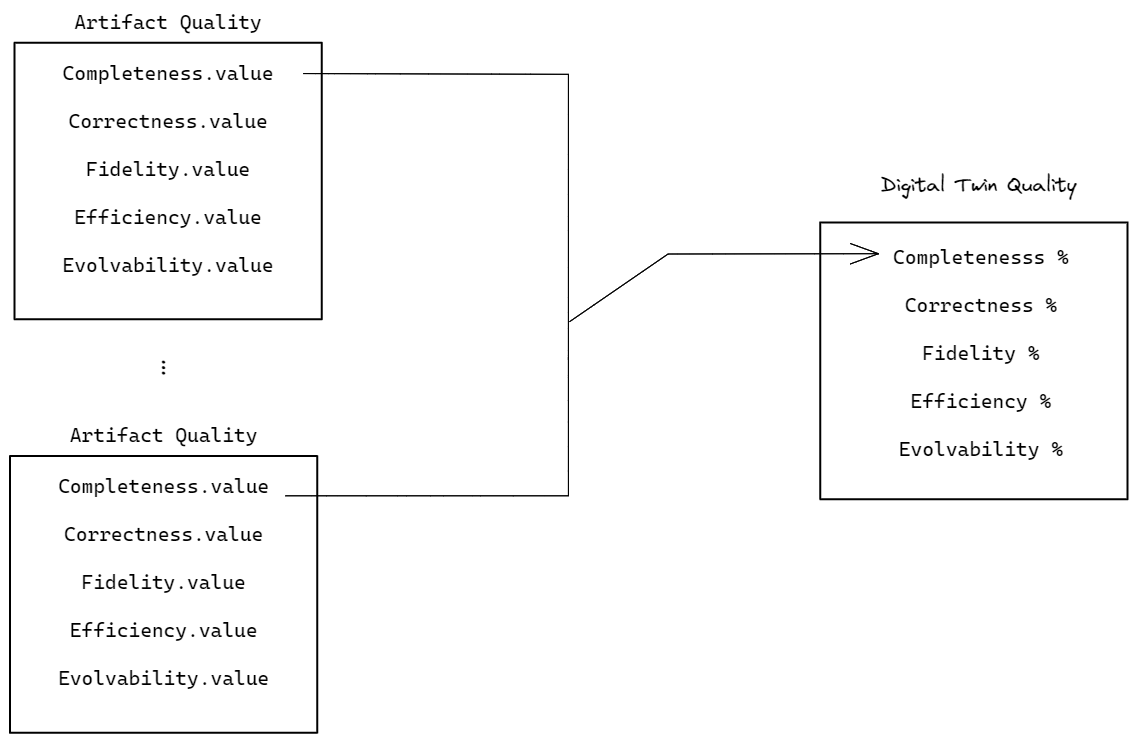
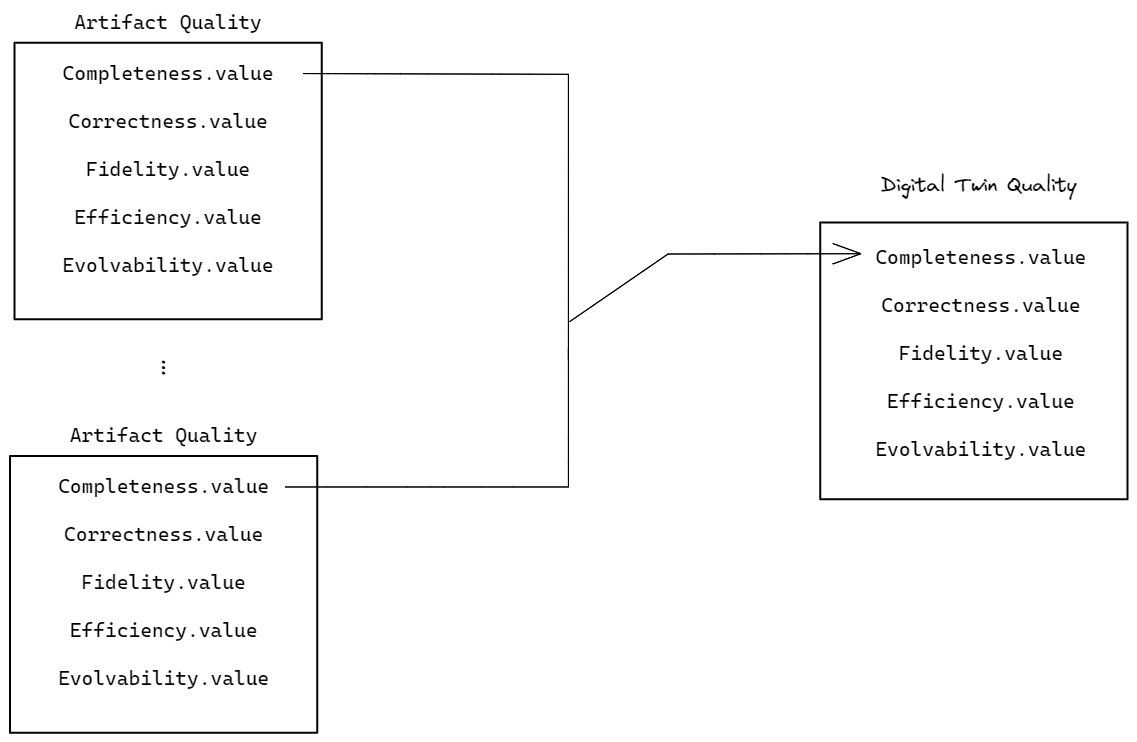
New image, new table, revisions 1,2,3

diff --git a/manuscripts/paper-1/main.tex b/manuscripts/paper-1/main.tex
@@ -8,6 +8,9 @@
 \usepackage{cite}
 \usepackage{booktabs}
 \usepackage{multirow}
+\usepackage{cleveref}
+\usepackage{tabularray}
+\usepackage{dirtree,array}
 
 
 
@@ -153,33 +156,34 @@
     The current stage of review encompasses five key artifacts, including process videos displaying the current assembly procedure without an adaptive workstation and cobot, a scope definition outlining the objects on the shop floor requiring tracking or twinning, a requirements specification summarizing functional and non-functional requirements for the digital twin, a general and an operational conceptual model elucidating the high-level structure of the assembly procedure, 
     and a discrete event simulation module that implements the structures prescribed by the conceptual models.
 
-    \textbf{Process Videos:}
-    The project partner provided three videos initially to explain the manual assembly procedures performed at each of the three workstations. From the videos,  
+    \textbf{Process Videos} have been utilized to explain the manual assembly procedures performed at each of the three workstations. From the three videos initially provided by the project partner,  
     the sequence of assembly steps was extracted at least for one product variant. The tools and the parts needed for each assembly operation were observed. Additionally, the approximate duration of each assembly step 
     was estimated, and some ergonomic characteristics of each operation were derived. 
     The derivable ergonomic characteristics mainly included the poses and motions performed by the operators.
 
-    \textbf{Scope Definition:}
-    To better understand the context and focus of the digital twin, 
-    the project partner used a methodology based on hierarchical task analysis and the process videos. 
+    \textbf{Scope Definition} was determined using a methodology based on hierarchical task analysis and process videos provided by the project partner, which aids in better understanding the context and focus of the digital twin.
     This resulted in a scope definition that identified entities to be twinned, entities to be tracked, and important areas in the scene. 
     Entities to be twinned needed to be represented accurately in the simulation models, including their position, pose, speed, fatigue, and other state variables. 
     Entities to be tracked, on the other hand, only required position information. The scope definition was based on a floor plan of the production facility, with the three workstations marked as gray rectangles. 
     The human workers, cobot, and adaptive workstation were identified as entities to be twinned, and therefore required accurate representation, 
     monitoring, and simulation. Other entities, such as an AGV, carts with doors, and screwdrivers used for assembly operations, were designated as entities to be tracked.
 
-    \textbf{Requirements Specification} for the digital twin was defined with a unique ID, a natural language description, an origin, a category, a priority, and a rationale. The ID was used as a reference point for other project artifacts, while the specification described the requirement in a way that allowed for testing of the digital twin implementation. The origin of the requirement was noted to identify the project partner responsible for its creation. The category distinguished between functional and non-functional requirements, as well as constraints and standards. The priority of each requirement was classified into four levels 
+    \textbf{Requirements Specification} for the digital twin was defined with a unique ID, a natural language description, an origin, a category, a priority, and a rationale. The ID was used as a reference point for other project artifacts, while the specification described the requirement in a way that allowed for testing of the digital twin implementation. The origin of the requirement was noted to identify the project partner responsible for its creation.
+     The category is distinguished between functional and non-functional requirements, as well as constraints and standards. The priority of each requirement was classified into four levels 
     (must-, should-, could-, and would-have) to help prioritize development efforts. 
-    Finally, the rationale provided a clear explanation for each requirement's inclusion in the specification.
+    Finally, the rationale provided a clear explanation for each requirement's implication in the specification.
 
-    \textbf{Conceptual Model} was comprised of two parts:  a general conceptual model and an operational conceptual model. Both models described the assembly line processes, but the operational conceptual model focused on the specific steps of the assembly process, while the general conceptual model focused on higher-level processes and workflows.
-    The general conceptual model was represented using a general flow chart notation that distinguished between a root node, activity nodes, and decision nodes.
+    \textbf{Conceptual Model} was comprised of two parts: a general conceptual model and an operational conceptual model. 
+    Both models described the assembly line processes however the operational conceptual model focused on the specific steps of the assembly process, while the general conceptual model focused on higher-level processes and workflows.
+    The general conceptual model was represented using a general flow chart notation which distinguishes a root node, activity nodes, and decision nodes.
     The operational conceptual model consisted of three spreadsheets, each displaying the sequence of assembly operations performed at one workstation. 
     The assembly operations were divided into macro- and micro-operations, with each macro-operation referring 
     to one part of the final product being assembled, and the micro-operations referring to the individual steps needed to complete the respective macro-operation.
 
-    \textbf{Discrete Event Simulation Model} consisted of seven sections, including two animation sections, two input sections, one output section, one process logic section, and a database section. The animation sections provided a two-dimensional and a three-dimensional representation of the system, which aided in understanding the simulation and for debugging purposes. The input sections allowed for the management of inputs to the simulation model, and the output section displayed summary performance indicators about the simulation run. 
-    The process logic section contained the process building blocks, such as queues and assembly operations. The database section provided an interface to data sources and sinks.
+    \textbf{Discrete Event Simulation Model} consisted of seven sections, including two animation sections, two input sections, one output section, one process logic section, and a database section. 
+    The animation sections provided a two-dimensional and a three-dimensional representation of the system, 
+    which aided in understanding the simulation and debugging purposes. The input sections allowed for the management of inputs to the simulation model, and the output section displayed summary performance indicators about the simulation run. 
+    The process logic section contained the process building blocks, such as queues and assembly operations. Lastly, the database section provided an interface to data sources and sinks.
     
     \subsection{Manual Artifact Reviews}
     During the initial stages of the project, when the target system was not yet available,
@@ -200,34 +204,33 @@
     Meanwhile, the quality of being correct is described by the term accuracy \cite{OxfordDictionary}. 
     
     \textbf{Completeness} is a derived word from the word complete, which can be described as an adjective, attribute, or verb\cite{OxfordDictionary}. 
-    The adjectival form of complete is a state of having all the necessary or appropriate parts\cite{OxfordDictionary}.
+    The adjectival form used in the study denotes \textit{complete} as a state of having all the necessary or appropriate parts of both systems\cite{OxfordDictionary}.
 
     \textbf{Fidelity} refers to the degree of exactness with which the real system is copied and represented. 
     Low fidelity indicates a simplified representation, while high fidelity refers to an accurate and detailed representation of the real system \cite{Review2}. 
     The concept of fidelity has garnered significant attention in recent
-    years and continues to be an important area of research in digital twins\cite{Review2}\cite{Review1}.
+    years and continues to be an important focus in Digital Twin research\cite{Review2}\cite{Review1}.
 
     \textbf{Efficiency} refers to the quality of being efficient\cite{OxfordDictionary}. Therefore, efficiency is achieving
-    maximum productivity with minimum wasted effort or expense. The concept of efficiency is tightly coupled to productivity, which refers to the quality of being productive,
-    also the word productive can be explained as producing or being able to produce large amounts of goods\cite{OxfordDictionary}.  
-    For example, time efficiency indicates that,  with less amount of time as an input, more output with the minimum 
-    waste during the process is desired. 
+    maximum productivity with minimum wasted effort or expense. It is worth mentioning that the concept of efficiency is tightly intertwined with the concept of productivity, 
+    although it differs from the latter's definition, which is defined as the ability to produce large amounts of goods\cite{OxfordDictionary}.  
+    For example, time efficiency indicates that,  with less amount of time as an input, more output with the minimum waste during the process is desired. 
 
     \textbf{Evolvability} is a system's capability to enhance its suitability to its environment through alterations to both its internal and functional 
     structure\cite{MobusSystemTheory}. Another term to describe the response to changes in the environment is adaptability.
     However, this concept differs from evolvability in that it only affects a system's internal or functional structure temporarily. 
-    For instance, a digital twin, which is a virtual system, can be designed to be more flexible and scalable, 
+    For instance, a digital twin, which is an evolvable virtual system, can be designed to be more flexible and scalable, 
     allowing for easy updates and the addition of new features\cite{ZHANGUPDATEMETHOD}.
     
-    \subsection{Mapping Digital Twin Attributes to Results of the Manual Reviews}
+    \subsection{Mapping Digital Twin Attributes to Manual Review Results}
     To evaluate the quality of the artifact, the issues were mapped to digital twin attributes. 
     To begin this process, the findings were collected from the manual review, followed by an inspection of the findings to determine which digital twin qualities were absent. 
     Finally, the findings were mapped to the relevant missing quality attribute(s) and submitted for artifact quality evaluation. 
     
-    subsection{Artifact Quality Evaluation}
+    \subsection{Artifact Quality Evaluation}
     To evaluate the quality of the digital twin artifacts, the mapped findings were scrutinized and evaluated. 
     The process started by identifying which quality attribute(s) were mapped. 
-    Once identified, the missing attribute(s) was incremented by 1 to determine the quality percentage of the artifact. 
+    Once identified, the missing attribute(s) was incremented by 1 to determine the total quality missing attributes of the artifact. 
     
     \begin{figure}[htbp]
         \includegraphics[scale = 0.35]{RequirementSpecifications.png}
@@ -238,12 +241,12 @@
     \subsection{Digital Twin Quality Evaluation}
     To assess the quality of the digital twin, the values obtained from evaluating each artifact's quality are collected and summed. 
     The resulting sum was assigned to the corresponding digital twin quality attribute. 
-    As a result, the digital twin quality was expressed as a percentage using the following equation:    
+    As a result, the digital twin quality was expressed with quality attribute values.    
   
 
     \begin{figure}[htbp]
         \includegraphics[scale = 0.25]{DigitalTwinQuality.png}
-            \caption{Method for the evaluation of the digital twin quality:}
+            \caption{Method for the evaluation of the digital twin quality}
         \label{fig:MethodforDigitalTwinQuality}
     \end{figure}
    
@@ -251,7 +254,56 @@
     %%%%%%%%%%%%%%%%%%%%%%%%%%%%%%%%%%%%%%%RESULTS%%%%%%%%%%%%%%%%%%%%%%%%%%%%%%%%%%%%%%%
     \section{Results}
 
-    
+    First, to assess digital twin quality, manual reviews for each artifact were conducted (Figure~\ref{fig:QualityInspectonResultsWithArtifacts} ). 
+    As a result, a total of twenty-one quality issues were identified, listed and finally mapped to the digital twin quality attributes(Table~\ref{tab:Table1})(Table~\ref{tab:Table2})(Figure~\ref{fig:QualityInspectonResultsWithArtifacts}).
+    The mapping process revealed that a total of thirty-eight digital twin quality attributes were lacking in the artifacts(Figure~\ref{fig:QualityInspectonResultsWithArtifacts}).  
+    Specifically, 24\% of the quality issues of the digital twin were related to the correctness, 35\%  were related to completeness, 8\%  were related to fidelity, 5\%  were related to efficiency,
+    and finally, 28\% were related to evolvability.  
+
+
+    \begin{table}[h!]
+    \begin{center}
+    ~\label{tab:Table2}
+    ~\caption{Findings from each Artifact}
+    \begin{tabular}{lrr}
+        \toprule
+        \textbf{Artifact Tree}\\
+        \midrule
+        \DTsetlength{0.2em}{0.5em}{0.5em}{0.4pt}{1pt}
+        \begin{minipage}{5cm}\dirtree{%
+        .1 Artifacts.
+        .2 Process Videos.
+        .3 Finding 1.
+        .2 Scope Definition.
+        .3 Finding 2.
+        .2 Requirement Specification.
+        .3 Finding 3.
+        .3 Finding 4.
+        .3 Finding 5.
+        .3 Finding 6.
+        .2 Conceptual Model.
+        .3 Finding 7.
+        .3 Finding 8.
+        .3 Finding 9.
+        .3 Finding 10.
+        .3 Finding 11.
+        .3 Finding 12.
+        .2 Simulation Model.
+        .3 Finding 13.
+        .3 Finding 14.
+        .3 Finding 15.
+        .3 Finding 16.
+        .3 Finding 17.
+        .3 Finding 18.
+        .3 Finding 19.
+        .3 Finding 20.
+        .3 Finding 21.
+        }
+        \end{minipage}
+        \end{tabular}
+        \end{center}
+        \end{table}
+    %TODO BETTER TABLE
     \begin{table}[h!]
     \begin{center}
     \label{tab:Table1}
@@ -282,6 +334,8 @@
         \textbf{Finding 19} &~~~~~~~~~0~~~~~~~~~ & ~~~~~~~~~1~~~~~~~~~ & ~~~~~~~~~0~~~~~~~~~ & ~~~~~~~~~0~~~~~~~~~ & ~~~~~~~~~1~~~~~~~~~ \\
         \textbf{Finding 20} &~~~~~~~~~0~~~~~~~~~ & ~~~~~~~~~0~~~~~~~~~ & ~~~~~~~~~0~~~~~~~~~ & ~~~~~~~~~0~~~~~~~~~ & ~~~~~~~~~1~~~~~~~~~ \\
         \textbf{Finding 21} &~~~~~~~~~0~~~~~~~~~ & ~~~~~~~~~0~~~~~~~~~ & ~~~~~~~~~0~~~~~~~~~ & ~~~~~~~~~0~~~~~~~~~ & ~~~~~~~~~1~~~~~~~~~ \\
+        \hline
+        \textbf{Total} &~~~~~~~~~9~~~~~~~~~ & ~~~~~~~~~13~~~~~~~~~ & ~~~~~~~~~3~~~~~~~~~ & ~~~~~~~~~2~~~~~~~~~ & ~~~~~~~~~11~~~~~~~~~ \\
     \end{tabular}
     }
     \end{center}
@@ -294,74 +348,7 @@
         \label{fig:QualityInspectonResultsWithArtifacts}
     \end{figure}
 
-    \textbf{Process Videos Review Results}
-
-    Findings 1  - Even though the videos are well suited for providing a first impression of the production facility 
-    and the current assembly process for one product variant, the other product variants include different assembly operations, 
-    which were not shown in the videos. 
-    Furthermore, the cobot and the adaptive workstation were not part of the assembly process yet,
-     hence the videos do not provide a complete representation of the target system.  
-
-    \textbf{Scope Definition Review Results}
-
-    Findings 2 - The scope definition focuses on the physical entities of the shop floor and is consistent with the videos presented in the previous section. 
-    However, the scope definition is incomplete. Several entities are only selected for the tracking, hence additional state information such as the failure status of these entities was missing in the digital twin. 
-
-    \textbf{Requirements Specification Review Results}
-
-    Findings 3 - Atypical categorization of the digital twin requirements as functional, non-functional, constraint and standard was introduced. 
-    Also, standard categories were considered as a cause of requirements instead of a category of requirements. Furthermore, 
-    the constraint category was considered a non-functional requirement which results in a significant misunderstanding between non-functional 
-    requirements and constraints. Finally, some requirements were described as non-functional requirements instead of functional requirements. 
-
-    Findings 4 - Imprecise and unclear statements were found in requirement specifications. 
-
-    Findings 5 - Key design decisions were found in the requirement specifications, which results in a considerable decrease in maintainability. 
-
-    \textbf{Conceptual  Model Review Results}
-
-    Findings 6 - Conceptual models are not designed to react to unwanted situations. 
-
-    Findings 7 - Conceptual model specification was not clear enough, which results in quite some room for interpretations by the stakeholders. 
-    as the use of an unspecified flow chart model is prone to differing interpretations by different stakeholders and probable incorrect understanding of the relations between the sub-systems.
-
-    Findings 8 - The difference between the event triggers and decision nodes was not clear, which decreased the clarity and maintainability of the model considerably. 
-
-    Findings 9 - The representation of the model is not great, hence understanding the interactions between the different subprocesses are not clear.
-
-    Findings 10 - The model were lacking great organization tools such as swim lanes and object flows. 
-
-    Findings 11 - The assignment of the cobot to micro-operations was not regularly reviewed and updated as the project progresses. 
-
-    Findings 12 - Even though the durations of the macro-operations were well-known and studied thoroughly before, the durations of the micro-operations were estimated based on a simple calculation scheme.
-
-    \textbf{Discrete Event Simulation Model Review Results}
-
-    Findings 13 - The input controls in the simulation module was not complete or aligned with the actual inputs that will be provided by another system. 
-
-    Findings 14, and 15 - The ranges defined for some events were not validated. 
-
-    Findings 16 - Database structures were not updated automatically, instead done manually.
-
-    Findings 17 - The duration of micro-, loading- and unloading-operations of the cobot were based on assumptions rather than actual measurements.
-
-    Findings 18 - The simulation module does not support parallel execution of micro-operations. 
-
-    Findings 19 - The interruption mechanism of the assembly line was not considered within the simulation module. 
-
-    Findings 20 - The number of micro-operations was hard coded, consequently, the simulation module must be reprogrammed every time, when a new micro-operation is needed. 
-
-    Findings 21 - Edge cases were not considered in the simulation module.  
-
-
-    \subsection{Mapping the Issues to Quality Attributes}
-    The analysis revealed that a total of thirty-eight digital twin quality attributes were lacking in these artifacts. \ref{fig:QualityInspectonResultsWithArtifacts}
-    Therefore, to evaluate the quality of the FELICE digital twin, observations are mapped to one or more relevant quality attributes\ref{tab:Mapping}.
-    In addition, the assessment shows that every one of the identified issues was quickly attributed to a specific quality attribute.  
-    Specifically, 24\% of the issues were related to correctness, which indicates an error between the real system and a digital twin system.
-    35\% of the issues were related to completeness, proving that some necessary or appropriate parts are missing.
-    8\% of the issues were related to fidelity, indicating a lack of detail. 5\% of the issues were related to efficiency, indicating poor 
-    performance or excessive resource usage. Finally, 28\% of the issues were related to evolvability, indicating that the system has flexibility or scalability issues.  
+    
 
     \section{Discussion}
 
@@ -369,10 +356,19 @@
     Therefore, systematic analysis of the identified issues in terms of their relevance to various quality attributes is an effective way to gain insight into the strengths and weaknesses of the digital twin system under development. 
     These insights can be used to guide further design decisions and improvements, ultimately leading to a higher-quality end product.
 
-    The quality assessment of the digital twin encountered some limitations due to the exility of information about the real system. Some artifacts provided less information, such as process videos, which only provide a limited perspective of the shopfloor based on the camera's field of view and the skills of the video maker. 
+    The quality assessment of the digital twin encountered some limitations due to the exility of information about the real system. Some artifacts provided less information, 
+    such as process videos, which only provide a limited perspective of the shop floor based on the camera's field of view and the skills of the video maker. 
     In contrast, the simulation and conceptual model offer a plethora of aspects to examine and assess, which results in a higher probability of discovering the issues \ref{fig:QualityInspectonResultsWithArtifacts}.
 
+    The reason of why the  most of the issues are related to the evolvability, 
+    completeness and correctness, and less for fidelity and efficiency is due to the stage that the FELICE project is in. Not only the exility of the information is the limiting factor, also the visibility of the information 
+    is also an interesting factor. Therefore, evolvability, completeness and correctness are easier to map and detect , rather than fidelity and efficiency. 
 
+    Person dependent, also not everything is written, memory problem, completeness, 
+    issuee finding sometimes even though the issue is not there, still assesed as a issue, assuming that person is correct
+
+    The write a protocol, timing ,hard to cover everything, 
+    
 
     
     \section*{Acknowledgements}
